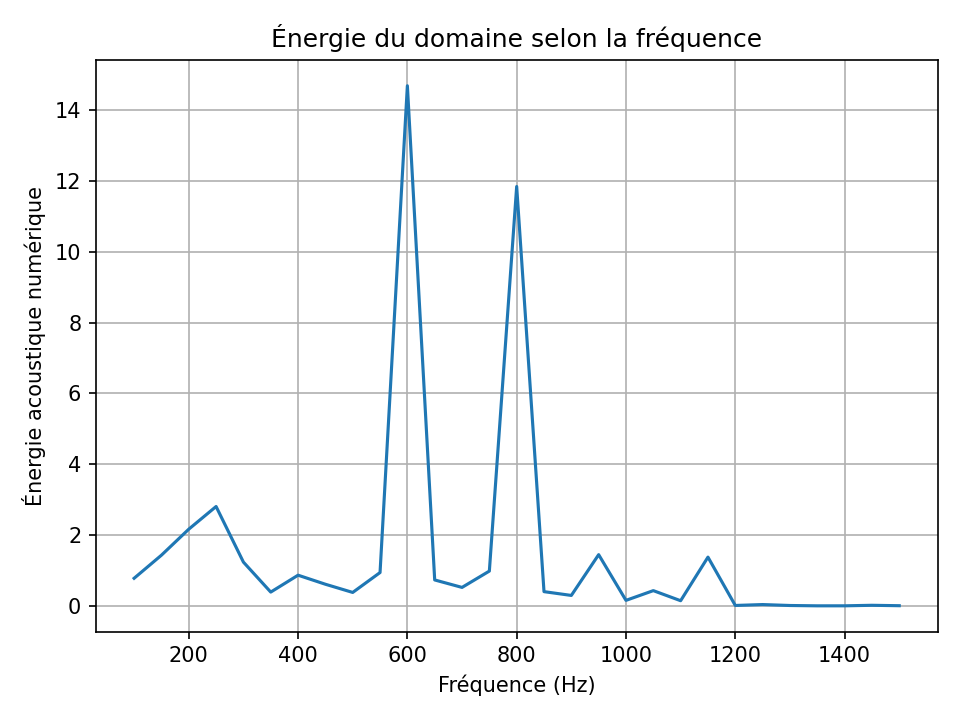
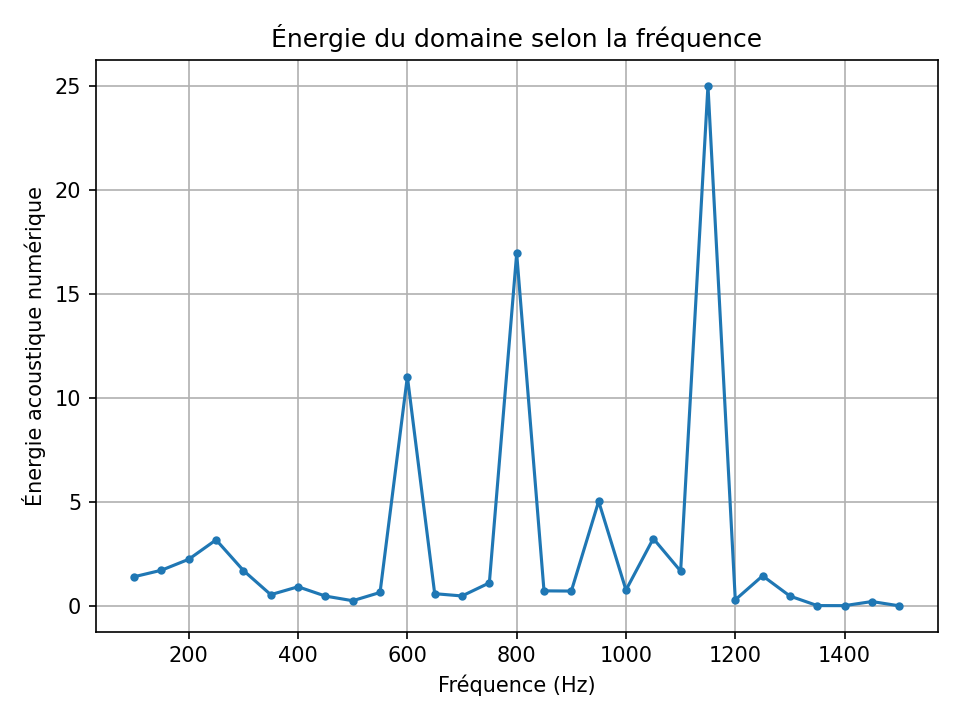
Actualise le spectre RER B et les premiers graphiques

diff --git a/support/postprocessing.py b/support/postprocessing.py
@@ -9,6 +9,7 @@ import os
 
 # MRG packages
 import _env
+import preprocessing
 
 
 def myimshow(tab, **kwargs):
@@ -131,18 +132,27 @@ def plot_rer_b_frequency_sweep(results, output_dir=None):
     os.makedirs(output_dir, exist_ok=True)
     frequencies = results["frequencies_hz"]
 
+    # On trace le spectre au-delà des fréquences simulées sans résoudre Helmholtz.
+    spectrum_frequencies = numpy.linspace(0.0, 3500.0, 701)
+    spectrum_amplitudes = numpy.array([
+        preprocessing.source_rer_b(frequency) for frequency in spectrum_frequencies
+    ])
     fig, ax = matplotlib.pyplot.subplots()
-    ax.plot(frequencies, results["amplitudes"])
+    ax.plot(spectrum_frequencies, spectrum_amplitudes)
+    ax.axvspan(frequencies[0], frequencies[-1], color="gray", alpha=0.15,
+               label="Plage simulée")
+    ax.set_xlim(0.0, 3500.0)
     ax.set_xlabel("Fréquence (Hz)")
     ax.set_ylabel("Amplitude relative")
     ax.set_title("Source acoustique hypothétique du RER B")
+    ax.legend()
     ax.grid(True)
     fig.tight_layout()
     fig.savefig(os.path.join(output_dir, "fig_rer_b_spectre.png"), dpi=150)
     matplotlib.pyplot.close(fig)
 
     fig, ax = matplotlib.pyplot.subplots()
-    ax.plot(frequencies, results["energies"])
+    ax.plot(frequencies, results["energies"], marker="o", markersize=3)
     ax.set_xlabel("Fréquence (Hz)")
     ax.set_ylabel("Énergie acoustique numérique")
     ax.set_title("Énergie du domaine selon la fréquence")

diff --git a/support/demo_control_polycopie2024.py b/support/demo_control_polycopie2024.py
@@ -165,6 +165,17 @@ if __name__ == '__main__':
 
     # -- plot chi, u, and energy
     postprocessing._plot_uncontroled_solution(u0, chi0)
+    # On masque le bord et l’extérieur, dont la pression n’est pas renvoyée.
+    initial_pressure = numpy.ma.masked_where(
+        domain_omega != _env.NODE_INTERIOR, numpy.abs(u0)
+    )
+    postprocessing.myimshow(
+        initial_pressure[:int(max(y)) + 2],
+        title="Module de la pression initiale", colorbar=True,
+        cmap="viridis", filename=os.path.join(
+            os.path.dirname(os.path.abspath(__file__)), "fig_u0_module.png"
+        ),
+    )
     postprocessing._plot_controled_solution(un, chin)
     err = un - u0
     postprocessing._plot_error(err)

diff --git a/support/preprocessing.py b/support/preprocessing.py
@@ -421,9 +421,9 @@ def source_rer_b(frequency_hz):
     frequency_hz = float(frequency_hz)
 
     composantes = (
-        (200.0, 80.0, 1.0),    # Bruit de traction et des moteurs.
-        (650.0, 250.0, 0.8),   # Bruit de roulement.
-        (2500.0, 450.0, 0.5), # Bruit de crissement.
+        (200.0, 100.0, 1.0),   # On représente les basses fréquences.
+        (800.0, 350.0, 0.8),   # On représente le bruit de roulement.
+        (2500.0, 150.0, 0.5),  # On représente une composante de crissement.
     )
     amplitude = 0.0
     for centre, largeur, poids in composantes:
